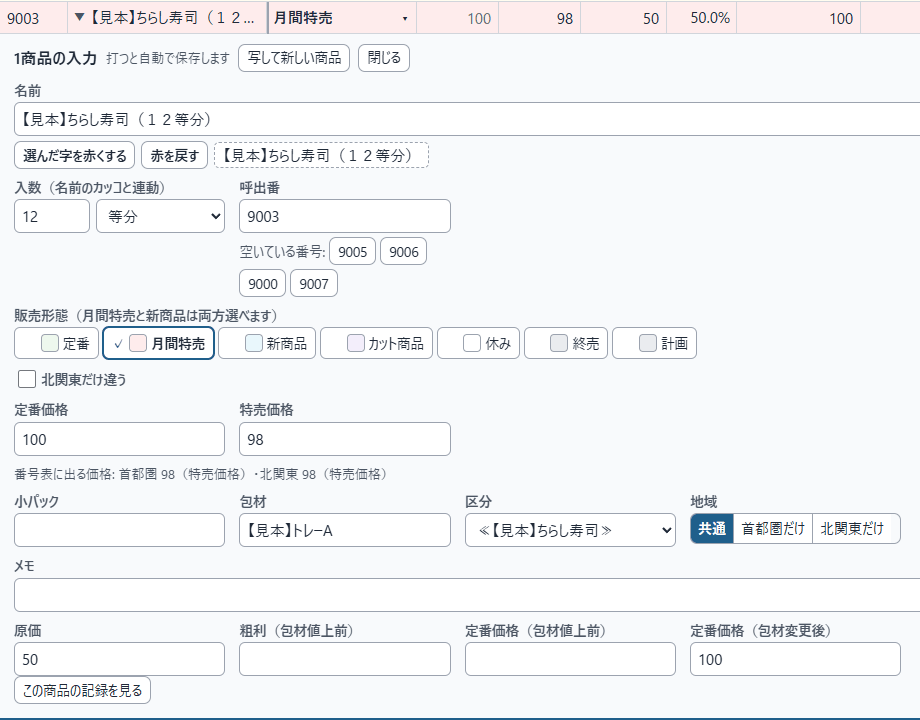
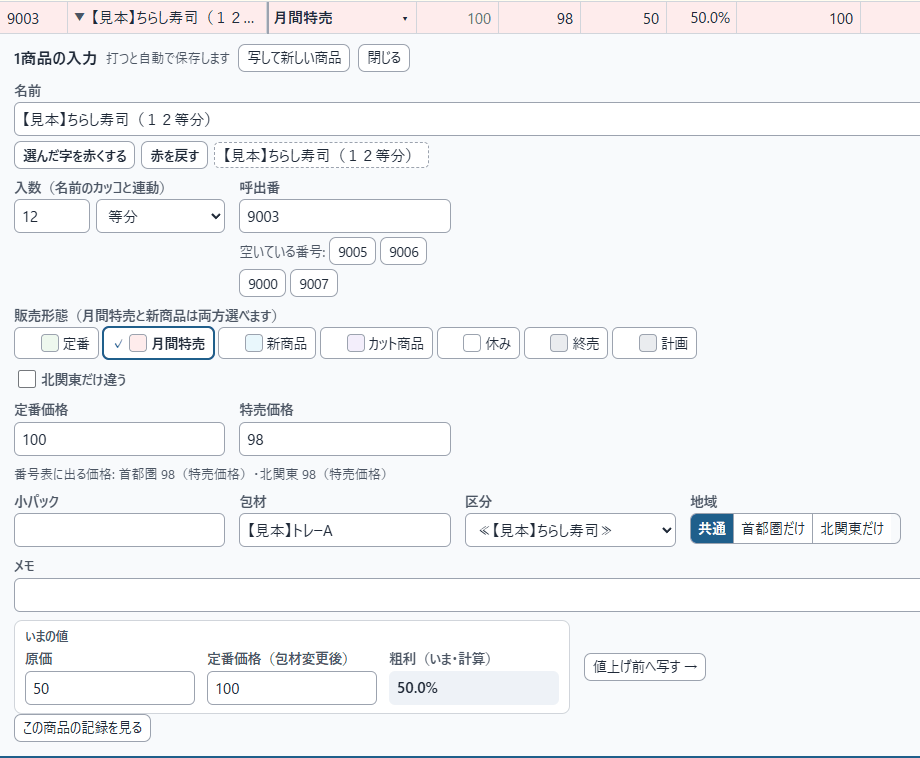
feat: 画面 souzai-number-api-0.2.3（_Dev の frontend と同じ・ご利用ガイドを図解に・ピンクの字は販売形態から付ける）

diff --git a/view-list.js b/view-list.js
@@ -21,8 +21,9 @@
   }
   function keyOf(pid, r) {
     if (view.keys.has(pid)) return view.keys.get(pid);
-    const p = db().products.get(pid); const sec = db().sections.get(String(r['区分ID']));
-    const t = [p['名前'], p['呼出番'], p['小パック'], sec ? sec['表題'] : ''].filter((x) => x !== '' && x !== null && x !== undefined).join(' ');
+    const p = db().products.get(pid);
+    // 名前・番号・小パックだけで当てる（区分の題は入れない＝「≪袋入コロッケ・メンチ・カツ≫」の区分の商品がコロッケでもメンチでも全部当たっていた。PO 2026-11-07。区分で絞るのは区分の選び欄）
+    const t = [p['名前'], p['呼出番'], p['小パック']].filter((x) => x !== '' && x !== null && x !== undefined).join(' ');
     const k = SN ? SN.key(t) : C.nfkc(t).toLowerCase();
     view.keys.set(pid, k);
     return k;
@@ -577,6 +578,51 @@
     return box;
   }
   function field(label, node, cls) { const w = el('label', cls || ''); w.append(document.createTextNode(label), node); return w; }
+  // ------------------------------------------------------------ 1商品の入力の原価（PO 2026-11-07）: 左に「いまの値」（原価・定番価格（包材変更後）・粗利＝計算）、右に「包材値上げ前（控え）」（粗利・定番価格）。
+  //   値上げのときは「値上げ前へ写す」で、いまの粗利と定番価格を控えへ写してから、新しい原価を打つ（コピペしなくてよい）。粗利の控えは割合の数で持ち、% で出して % で受け取る
+  const GB = '粗利（包材値上前）', PB = '定番価格（包材値上前）', PA = '定番価格（包材変更後）';
+  function costBlock(pid, r) {
+    const c0 = () => db().costs.get(pid) || {};
+    const block = el('div', 'cost-block wide');
+    const now = el('div', 'cost-group'); now.append(el('div', 'cost-head', 'いまの値'));
+    const nowRow = el('div', 'cost-fields');
+    const gross = el('output', 'cost-gross'); gross.setAttribute('aria-live', 'polite');
+    const costIn = { v: null }, priceIn = { v: null };
+    const paintGross = () => { const g = C.grossAfter(costIn.v ? costIn.v.value : c0()['原価'], priceIn.v ? priceIn.v.value : c0()[PA]); gross.textContent = g === null ? '—' : C.grossText(g); gross.classList.toggle('is-out', g !== null && (g < C.GROSS_LOW || g > C.GROSS_HIGH)); copy.disabled = g === null; };
+    const saveCost = (k) => (v, i) => { const n = String(v).trim().startsWith('=') ? String(v).trim() : toStored(v); if (showVal(n) === showVal(c0()[k])) { paintGross(); return; } const m = App.change([{ t: '原価', id: pid, f: { [k]: n } }]); if (m) { i.classList.add('is-bad'); toast(m, true); return; } i.classList.remove('is-bad'); paintRow(r); paintGross(); };
+    costIn.v = textInput(c0()['原価'], saveCost('原価')); priceIn.v = textInput(c0()[PA], saveCost(PA));
+    [costIn.v, priceIn.v].forEach((i) => i.addEventListener('input', paintGross)); // 打っている間も粗利をその場で
+    const grossBox = el('div', 'field'); grossBox.append(document.createTextNode('粗利（いま・計算）'), gross);
+    nowRow.append(field('原価', costIn.v), field(PA, priceIn.v), grossBox); now.append(nowRow);
+    // 控え
+    const before = el('div', 'cost-group cost-before'); before.append(el('div', 'cost-head', '包材値上げ前（控え）'));
+    const befRow = el('div', 'cost-fields');
+    const gIn = textInput(C.grossText(c0()[GB]), (v, i) => {
+      const n = C.parseGross(v);
+      if (n === null) { i.classList.add('is-bad'); i.title = '% の数で入れてください（例 30.1）'; return; } // 打っている途中（「30.」など）でお知らせを出さない。赤い枠と説明だけ
+      i.title = '';
+      const cur = c0()[GB];
+      if (n === '' ? C.isBlank(cur) : (!C.isBlank(cur) && Math.abs(n - Number(cur)) < 0.0005)) { i.classList.remove('is-bad'); return; } // 出した桁の中で同じなら直さない（元の細かい数を残す）
+      const m = App.change([{ t: '原価', id: pid, f: { [GB]: n } }]); if (m) { i.classList.add('is-bad'); toast(m, true); return; } i.classList.remove('is-bad'); paintRow(r);
+    }, { placeholder: '例 30.1%', inputMode: 'decimal' });
+    const pIn = textInput(c0()[PB], saveCost(PB));
+    befRow.append(field('粗利', gIn), field('定番価格', pIn)); before.append(befRow);
+    // いまの値 → 控え（1回で2つ。元に戻せる）
+    const copy = el('button', 'btn btn-small cost-copy', '値上げ前へ写す →'); copy.type = 'button'; copy.title = 'いまの粗利と定番価格（包材変更後）を、包材値上げ前の控えへ写します。そのあと新しい原価を打ちます';
+    copy.addEventListener('click', () => {
+      const c = c0(); const g = C.grossAfter(c['原価'], c[PA]); if (g === null) return;
+      const back = { [GB]: C.isBlank(c[GB]) ? '' : c[GB], [PB]: C.isBlank(c[PB]) ? '' : c[PB] };
+      const to = { [GB]: Math.round(g * 1e10) / 1e10, [PB]: toStored(showVal(c[PA])) };
+      const m = App.change([{ t: '原価', id: pid, f: to }]); if (m) { toast(m, true); return; }
+      gIn.value = C.grossText(to[GB]); pIn.value = showVal(to[PB]); paintRow(r);
+      toast('いまの粗利 ' + C.grossText(to[GB]) + '・定番価格 ' + showVal(to[PB]) + ' を、値上げ前の控えへ写しました。続けて新しい原価を打ってください。', false, { label: '元に戻す', run: () => { if (!App.change([{ t: '原価', id: pid, f: back }])) { gIn.value = C.grossText(back[GB]); pIn.value = showVal(back[PB]); paintRow(r); } } });
+      costIn.v.focus(); costIn.v.select();
+    });
+    const mid = el('div', 'cost-mid'); mid.append(copy);
+    block.append(now, mid, before);
+    paintGross();
+    return block;
+  }
   function textInput(value, onCommit, attrs) {
     const i = el('input'); i.value = showVal(value); Object.assign(i, attrs || {});
     let timer = 0;
@@ -682,8 +728,7 @@
     grid.append(field('メモ', textInput(p['メモ'], (v) => { if (String(v) !== showVal(p['メモ'])) save1('メモ', v); }), 'wide'));
     // 隠しの計算
     if (state.showCosts) {
-      const c = db().costs.get(pid) || {};
-      C.COST_KEYS.forEach((k) => grid.append(field(k, textInput(c[k], (v, i) => { const n = String(v).trim().startsWith('=') ? String(v).trim() : toStored(v); if (showVal(n) === showVal(c[k])) return; const m = App.change([{ t: '原価', id: pid, f: { [k]: n } }]); if (m) { i.classList.add('is-bad'); toast(m, true); return; } i.classList.remove('is-bad'); paintRow(r); }))));
+      grid.append(costBlock(pid, r));
     } else {
       grid.append(field('原価', Object.assign(el('input'), { disabled: true, value: '「原価を表示」を押すと入れられます' })));
     }

diff --git a/guide-img/figs.js b/guide-img/figs.js
@@ -7,13 +7,13 @@ window.GUIDE_SHOTS = Object.freeze({
   "hq-publish": { src: "guide-img/hq-publish.png?v=f1417d04", w: 1366, h: 54, alt: "月の横の「店に非公開」「✓ 店に公開中」の切り替えの写真（作り物のデータ）", marks: [[9.7,0,10.3,11.1,27.2,63],[29.1,3.7,29.8,16.7,7.5,51.9]] },
   "hq-month": { src: "guide-img/hq-month.png?v=8b7652c2", w: 1366, h: 396, alt: "「＋ 月を足す」を押して開いた所の写真（作り物のデータ）", marks: [[22.7,0.5,23.4,2.3,6.1,7.1],[2,26.5,2.6,28.3,38,5.7],[2,78.7,2.6,80.4,12,8.2],[42.8,49.1,43.4,50.9,7.7,8.2],[42.8,74.1,43.4,75.8,8.9,8.2]] },
   "hq-list": { src: "guide-img/hq-list.png?v=5dca44db", w: 1366, h: 437, alt: "一覧で、定番価格のセルを選んだ所の写真（作り物のデータ）", marks: [[0.2,0.9,0.9,2.5,19.8,7.8],[20.6,1.4,21.2,3,55.4,6.9],[76.6,0.9,77.2,2.5,11.7,7.8],[88.9,1.1,89.5,2.7,6.8,7.4],[0,15.4,0,17,100,8],[29.9,60.8,30.5,62.4,6,7.3],[18.9,75.4,19.5,77,10.9,7.1],[71.2,75.4,71.8,77,13.9,7.3]] },
-  "hq-detail": { src: "guide-img/hq-detail.png?v=349aef0a", w: 920, h: 720, alt: "名前を押して開いた「1商品の入力」の写真（作り物のデータ）", marks: [[0.5,18.6,1.5,19.5,13.2,3.9],[0.5,23.6,1.5,24.5,23,16.7],[25,31.9,26,32.9,23,8.3],[0.5,44.5,1.5,45.5,98.5,4.4],[0.5,63.4,1.5,64.4,98.5,2.7],[74,70.3,75,71.3,23,4.3],[24.9,5.1,25.9,6,12.2,3.9],[38,5.1,38.9,6,5.6,3.9]] },
+  "hq-detail": { src: "guide-img/hq-detail.png?v=34559b0a", w: 920, h: 758, alt: "名前を押して開いた「1商品の入力」の写真（作り物のデータ）", marks: [[0.5,17.6,1.5,18.6,13.2,3.7],[0.5,22.4,1.5,23.3,23,15.9],[25,30.3,26,31.3,23,7.9],[0.5,42.2,1.5,43.2,98.5,4.2],[0.5,60.2,1.5,61.1,98.5,2.6],[74,66.8,75,67.7,23,4.1],[24.9,4.8,25.9,5.7,12.2,3.7],[38,4.8,38.9,5.7,5.6,3.7]] },
   "hq-new": { src: "guide-img/hq-new.png?v=9c2fea3d", w: 910, h: 349, alt: "新しい商品の名前を打って、似た商品を選んだ所の写真（作り物のデータ）", marks: [[0,8.5,0,10.5,100,8.9],[0.1,26.6,1.1,28.7,96.7,8.7],[0.1,42.9,1.1,44.9,25.1,9.7],[0.1,61.4,1.1,63.4,79.3,9.2],[0.1,72.9,1.1,74.9,96.7,8.9],[0.1,84,1.1,86,9.7,9.3]] },
   "hq-sheet": { src: "guide-img/hq-sheet.png?v=b856f947", w: 1366, h: 389, alt: "番号表の首都圏の写真（作り物のデータ）", marks: [[0.2,1.6,0.9,3.4,28.5,8.6],[29.5,2,30.1,3.8,8.1,7.8],[38.4,1.5,39,3.3,15.4,8.7],[13.3,15.7,0.9,13.1,11.4,5.2],[1.4,65.2,2.1,67,19.9,7.9],[1.4,73.1,2.1,74.9,19.9,7.9]] },
   "hq-move": { src: "guide-img/hq-move.png?v=b4c2180c", w: 1366, h: 389, alt: "番号表で、区分の見出しを掴んで動かしている途中の写真（作り物のデータ）", marks: [[35.6,57.4,36.3,59.2,19.9,7.9],[70.5,59.5,70.5,58.9,29.4,1],[24.9,11.3,25.5,13.1,11.4,5.2],[91.5,56.2,75.9,58,14.9,7.5],[72.3,1.7,73,3.5,10,8.4],[83,1.7,83.7,3.5,5.7,8.4],[62,2.5,62.7,4.3,9.6,6.7],[89.4,1.7,90.1,3.5,6.8,8.4]] },
   "hq-monthly": { src: "guide-img/hq-monthly.png?v=9cf04e20", w: 950, h: 331, alt: "番号表の「月間特売」の写真（作り物のデータ）", marks: [[0.3,0.7,1.3,2.8,9.1,10.1],[2.2,29.7,3.2,31.8,30,9.7],[0.3,12.1,1.3,14.2,41.4,8.5],[43.6,12.1,30.8,14.2,11.9,8.5]] },
   "hq-alert": { src: "guide-img/hq-alert.png?v=9a717879", w: 880, h: 434, alt: "一覧のアラートの写真（作り物のデータ）", marks: [[0.6,7.3,1.6,8.9,4,4.3],[0.6,68.5,1.6,70.1,6.5,4.8],[45.2,51.3,46.2,52.9,17.5,6.5],[63.5,67.6,64.5,69.2,10.2,6.5],[65,59.3,66,60.9,9.8,7.4]] },
-  "hq-log": { src: "guide-img/hq-log.png?v=77eaf10f", w: 1000, h: 160, alt: "「記録」のタブの写真（作り物のデータ）", marks: [[0.7,1.6,1.6,5.9,26,21.3],[2.3,46.9,1.7,51.3,96.7,23.1],[85.8,49.7,86.7,54.1,9.1,17.5]] },
+  "hq-log": { src: "guide-img/hq-log.png?v=bbbe4668", w: 1000, h: 160, alt: "「記録」のタブの写真（作り物のデータ）", marks: [[0.7,1.6,1.6,5.9,26,21.3],[2.3,46.9,1.7,51.3,96.7,23.1],[85.8,49.7,86.7,54.1,9.1,17.5]] },
   "hq-pack": { src: "guide-img/hq-pack.png?v=6bfce1f4", w: 1366, h: 485, alt: "設定の「パックの値段」の写真（作り物のデータ）", marks: [[51.4,0,52.1,1.4,4.1,6.7],[4.2,45.5,4.9,47,6.4,7.4],[0.5,89.9,1.2,91.3,7.1,6.7],[8.5,91.1,9.1,92.5,18.6,4.3],[36,39.9,36.6,41.4,25.3,42.6]] },
   "view-map": { src: "guide-img/view-map.png?v=773c500d", w: 1366, h: 313, alt: "店のアカウントで開いた番号表の画面の写真（作り物のデータ）", marks: [[9.7,0.4,10.3,2.6,8.1,8.9],[0.2,14.3,0.9,16.5,28.5,10.7],[29.5,14.8,30.1,17,8.1,9.7],[38.4,14.2,39,16.5,15.4,10.9],[82.1,0,82.8,1.9,4.2,10.4],[87,0,87.7,1.9,4.1,10.4]] },
   "view-search": { src: "guide-img/view-search.png?v=5b28a785", w: 1366, h: 313, alt: "店のアカウントで番号表に「maki」と打って探した所の写真（作り物のデータ）", marks: [[43.3,14.2,44,16.5,15.4,10.9],[35.6,26.7,36.3,28.9,19.9,11.9],[66.4,15.2,67,17.4,3.1,8.9],[8.2,16.5,6.6,18.8,1.3,6]] },

diff --git a/core.js b/core.js
@@ -80,6 +80,10 @@
   function showCell(v) { if (v === null || v === undefined) return ''; if (typeof v === 'string' && v.trim()[0] === '=') { const n = evalArith(v); return n === null ? v : String(Math.round(n * 100) / 100); } return String(v); }
   /** 原価の欄に受け付ける形か（空・数・数字の式） */
   function costFormOk(v) { return isBlank(v) || evalArith(v) !== null; }
+  /** 粗利（包材値上前）は割合の数で持つ（Excel の 0.301＝30.1%・包材の値上げ前の控え）。画面は % で出して % で受け取る（PO 2026-11-07「BY が直したいとき直せるように」） */
+  function grossText(v) { if (isBlank(v)) return ''; const n = Number(v); return Number.isFinite(n) ? (Math.round(n * 1000) / 10).toFixed(1) + '%' : String(v); }
+  /** 打った字 → 割合の数（'30.1' も '30.1%' も 0.301）。空なら ''・数でなければ null */
+  function parseGross(s) { const t = nfkc(String(s ?? '')).replace(/[%\s]/g, ''); if (t === '') return ''; if (!/^-?[0-9]+(\.[0-9]+)?$/.test(t)) return null; return Math.round(Number(t) * 1e8) / 1e10; }
   /** 粗利（包材変更後）の割合（計算できなければ null） */
   function grossAfter(cost, price) { const c = evalArith(cost), p = evalArith(price); return c !== null && p ? (p - c) / p : null; }
 
@@ -840,6 +844,7 @@
     const s = String(v);
     if (s.length > (LIMITS[key] || 2000)) return key + 'が長すぎます';
     if (table === '原価' && (key === '原価' || key.indexOf('定番価格') === 0) && !costFormOk(v)) return key + 'は、数か、数字だけの式（=100+20）で入れてください';
+    if (table === '原価' && key === '粗利（包材値上前）' && !isBlank(v) && !(typeof v === 'number' && Number.isFinite(v) && v >= -10 && v <= 1)) return '粗利（包材値上前）は、% の数で入れてください（例 30.1）';
     if (table === '行' && key === '販売形態' && s !== '' && FORMS_ALL.indexOf(s) < 0) return '販売形態は、一覧の中から選んでください';
     if (table === '商品' && key === '地域' && ['共通', '首都圏だけ', '北関東だけ'].indexOf(s) < 0) return '地域は、共通・首都圏だけ・北関東だけのどれかです';
     return '';
@@ -856,5 +861,5 @@
     isCutSection, cutSectionOf, formChanges, nextForm, nextMonthTables, nextMonthOf, MONTHLY_COLS, monthlyWanted, monthlySync, monthlyReconcile, splitSmall,
     MONTHLY_TABLE, MONTHLY_SHEETS, MONTHLY_MARGIN, MIN_NAME_PT, printBox, monthlyPrint, numberPrint,
     PACK_KIND, PACK_PICTURE, PACK_TITLE, PACK_DEFAULT, PACK_MAX_ROWS, PACK_MAX_PRICE, packProblem, packText, parsePack, packOf,
-    isBlank, nfkc, toFull, halfCall, fullDigits, num, evalArith, costFormOk, grossAfter, parseDeco, editRuns, paintRuns, SALE_FONTS, isSaleFont, dropSaleColor, cleanNameDeco, saleRuns, parseQty, setQty, rowsOf, makeDb, setType, blockRoles, blockList, rowValue, secValue, rowRegionOk, rowShown, rowsOfSection, rowsBySection, placesOfBlock, sectionsOfKind, layoutOf, moveSection, moveRow, rowGroup, applyChanges, beforeOf, usedOfKind, capsOfKind, autoPlace, resetToAuto, alertsOf, gapsOf, fieldProblem, hintOf };
+    isBlank, nfkc, toFull, halfCall, fullDigits, num, evalArith, costFormOk, grossAfter, grossText, parseGross, parseDeco, editRuns, paintRuns, SALE_FONTS, isSaleFont, dropSaleColor, cleanNameDeco, saleRuns, parseQty, setQty, rowsOf, makeDb, setType, blockRoles, blockList, rowValue, secValue, rowRegionOk, rowShown, rowsOfSection, rowsBySection, placesOfBlock, sectionsOfKind, layoutOf, moveSection, moveRow, rowGroup, applyChanges, beforeOf, usedOfKind, capsOfKind, autoPlace, resetToAuto, alertsOf, gapsOf, fieldProblem, hintOf };
 })(typeof window !== 'undefined' ? window : (typeof globalThis !== 'undefined' ? globalThis : this));

diff --git a/index.html b/index.html
@@ -8,23 +8,23 @@
   <meta name="referrer" content="no-referrer">
   <title>商品呼出番号表</title>
   <meta name="application-name" content="商品呼出番号表">
-  <script src="oauth-return.js?v=0.2.2"></script>
-  <link rel="stylesheet" href="styles.css?v=0.2.2">
-  <script src="config.js?v=0.2.2" defer></script>
-  <script src="login.js?v=0.2.2" defer></script>
-  <script src="search-norm.js?v=0.2.2" defer></script>
-  <script src="core.js?v=0.2.2" defer></script>
-  <script src="pack-picture.js?v=0.2.2" defer></script>
-  <script src="sheet-model.js?v=0.2.2" defer></script>
-  <script src="xlsx-write.js?v=0.2.2" defer></script>
-  <script src="app.js?v=0.2.2" defer></script>
-  <script src="view-list.js?v=0.2.2" defer></script>
-  <script src="view-reader.js?v=0.2.2" defer></script>
-  <script src="view-sheet.js?v=0.2.2" defer></script>
-  <script src="view-more.js?v=0.2.2" defer></script>
-  <script src="import-merge.js?v=0.2.2" defer></script>
-  <script src="import-summary.js?v=0.2.2" defer></script>
-  <script src="view-month.js?v=0.2.2" defer></script>
+  <script src="oauth-return.js?v=0.2.3"></script>
+  <link rel="stylesheet" href="styles.css?v=0.2.3">
+  <script src="config.js?v=0.2.3" defer></script>
+  <script src="login.js?v=0.2.3" defer></script>
+  <script src="search-norm.js?v=0.2.3" defer></script>
+  <script src="core.js?v=0.2.3" defer></script>
+  <script src="pack-picture.js?v=0.2.3" defer></script>
+  <script src="sheet-model.js?v=0.2.3" defer></script>
+  <script src="xlsx-write.js?v=0.2.3" defer></script>
+  <script src="app.js?v=0.2.3" defer></script>
+  <script src="view-list.js?v=0.2.3" defer></script>
+  <script src="view-reader.js?v=0.2.3" defer></script>
+  <script src="view-sheet.js?v=0.2.3" defer></script>
+  <script src="view-more.js?v=0.2.3" defer></script>
+  <script src="import-merge.js?v=0.2.3" defer></script>
+  <script src="import-summary.js?v=0.2.3" defer></script>
+  <script src="view-month.js?v=0.2.3" defer></script>
   <link rel="icon" href="favicon.svg" type="image/svg+xml">
 </head>
 <body>

diff --git a/styles.css b/styles.css
@@ -187,6 +187,17 @@ tr.detail-row td { background: #f8fafc; height: auto; white-space: normal; paddi
 .detail input, .detail select { height: 34px; border: 1px solid var(--line2); border-radius: 6px; padding: 2px 7px; background: #fff; color: var(--ink); font-weight: 400; font-size: 15px; }
 .detail input:disabled { background: #eef0f3; }
 .detail .wide { grid-column: 1 / -1; }
+/* 1商品の入力の原価: 左＝いまの値（原価・定番価格（包材変更後）・粗利の計算）、右＝包材値上げ前の控え。間に「値上げ前へ写す →」 */
+.cost-block { display: flex; align-items: center; gap: 10px 14px; flex-wrap: wrap; }
+.cost-group { border: 1px solid var(--line); border-radius: 8px; padding: 6px 10px 8px; background: #fff; }
+.cost-before { margin-left: auto; background: #fafaf3; border-style: dashed; }
+.cost-head { font-size: 12.5px; font-weight: 700; color: var(--ink2); margin-bottom: 3px; }
+.cost-fields { display: flex; gap: 8px 12px; flex-wrap: wrap; }
+.cost-fields > label, .cost-fields > .field { width: 170px; }
+.cost-gross { display: flex; align-items: center; height: 34px; padding: 2px 8px; border-radius: 6px; background: #eef2f7; color: var(--ink); font-weight: 700; font-size: 15px; }
+.cost-gross.is-out { color: var(--red); }
+.cost-mid { display: flex; align-items: center; }
+@media (max-width: 760px) { .cost-before { margin-left: 0; } .cost-fields > label, .cost-fields > .field { width: 140px; } }
 .detail-title { display: flex; align-items: center; gap: 8px; flex-wrap: wrap; margin-bottom: 8px; }
 .detail-title h3 { margin: 0; font-size: 16px; }
 .name-tools { display: flex; align-items: center; flex-wrap: wrap; gap: 6px; margin-top: 3px; }

diff --git a/app.js b/app.js
@@ -1,9 +1,9 @@
 (() => {
   'use strict';
-  // 商品呼出番号表の画面の土台（版 souzai-number-api-0.2.2）。通信・ログイン・保存の列・待ちの印・上の帯・Excel。一覧は view-list.js・見本は view-sheet.js・記録と設定は view-more.js。
+  // 商品呼出番号表の画面の土台（版 souzai-number-api-0.2.3）。通信・ログイン・保存の列・待ちの印・上の帯・Excel。一覧は view-list.js・見本は view-sheet.js・記録と設定は view-more.js。
   // 業務データ・アカウント表・鍵は置かない。だれか・何ができるかは、毎回 窓口が決める。原価は本部の人が開くとき（たたんでいなければ）・「原価を表示」・Excel のときだけ受け取り、端末に残さない。見るだけの人には窓口が返さない。
   // 信頼境界: 窓口から届く文字（商品名など）は、人が打った文字。画面に出すときは textContent か esc() を通す。
-  const APP_VERSION = 'souzai-number-api-0.2.2';
+  const APP_VERSION = 'souzai-number-api-0.2.3';
   const CONFIG = window.APP_CONFIG || {};
   const IS_DEV = CONFIG.dev === true && /^(127\.0\.0\.1|localhost)$/.test(location.hostname);
   const GAS_URL = String(CONFIG.gasUrl || '');

diff --git a/guide.html b/guide.html
@@ -7,12 +7,12 @@
   <meta http-equiv="Content-Security-Policy" content="default-src 'self'; script-src 'self'; style-src 'self'; connect-src 'self' https://script.google.com https://script.googleusercontent.com; img-src 'self' data:; object-src 'none'; base-uri 'none'; form-action 'self'">
   <meta name="referrer" content="no-referrer">
   <title>ご利用ガイド | 商品呼出番号表</title>
-  <script src="oauth-return.js?v=0.2.2"></script>
-  <link rel="stylesheet" href="styles.css?v=0.2.2">
-  <link rel="stylesheet" href="guide.css?v=0.2.2">
-  <script src="config.js?v=0.2.2" defer></script>
-  <script src="guide-img/figs.js?v=0.2.2" defer></script>
-  <script src="guide.js?v=0.2.2" defer></script>
+  <script src="oauth-return.js?v=0.2.3"></script>
+  <link rel="stylesheet" href="styles.css?v=0.2.3">
+  <link rel="stylesheet" href="guide.css?v=0.2.3">
+  <script src="config.js?v=0.2.3" defer></script>
+  <script src="guide-img/figs.js?v=0.2.3" defer></script>
+  <script src="guide.js?v=0.2.3" defer></script>
   <link rel="icon" href="favicon.svg" type="image/svg+xml">
 </head>
 <body class="guide-page">

diff --git a/import-worker.js b/import-worker.js
@@ -1,7 +1,7 @@
 'use strict';
 // 取り込むファイルを読む作業場所（画面の外＝大きな .xls を読んでいる間も、画面は止まらない）。読むだけで、どこへも送らない。
 //   何の物か（手作りの番号表・サマリー）は、ファイルの名前でなく中身（見えるシートの名前）で決める。
-importScripts('core.js?v=0.2.2', 'search-norm.js?v=0.2.2', 'book-read.js?v=0.2.2', 'import-table.js?v=0.2.2', 'import-summary.js?v=0.2.2');
+importScripts('core.js?v=0.2.3', 'search-norm.js?v=0.2.3', 'book-read.js?v=0.2.3', 'import-table.js?v=0.2.3', 'import-summary.js?v=0.2.3');
 function kindOf(book) {
   const names = book.sheets.filter((s) => s.state === 'visible').map((s) => s.name);
   if (names.some((n) => /寿司・弁当|焼き物/.test(n))) return 'table';

diff --git a/view-month.js b/view-month.js
@@ -7,7 +7,7 @@
   const App = window.SouzaiApp;
   const { $, el, C, state, toast, busyButton, api, rid, monthText } = App;
   const M = window.SouzaiImportMerge;
-  const V = '0.2.2';
+  const V = '0.2.3';
   const panel = $('#month-panel'), button = $('#month-add');
   const queue = []; // { key, file, name, status: 'reading'|'ready'|'bad'|'dup'|'done', kind, month, result, merge, summary, note, rid }
   let costsMemo = null; // 比べるための原価（この画面の中だけ・端末に残さない）
